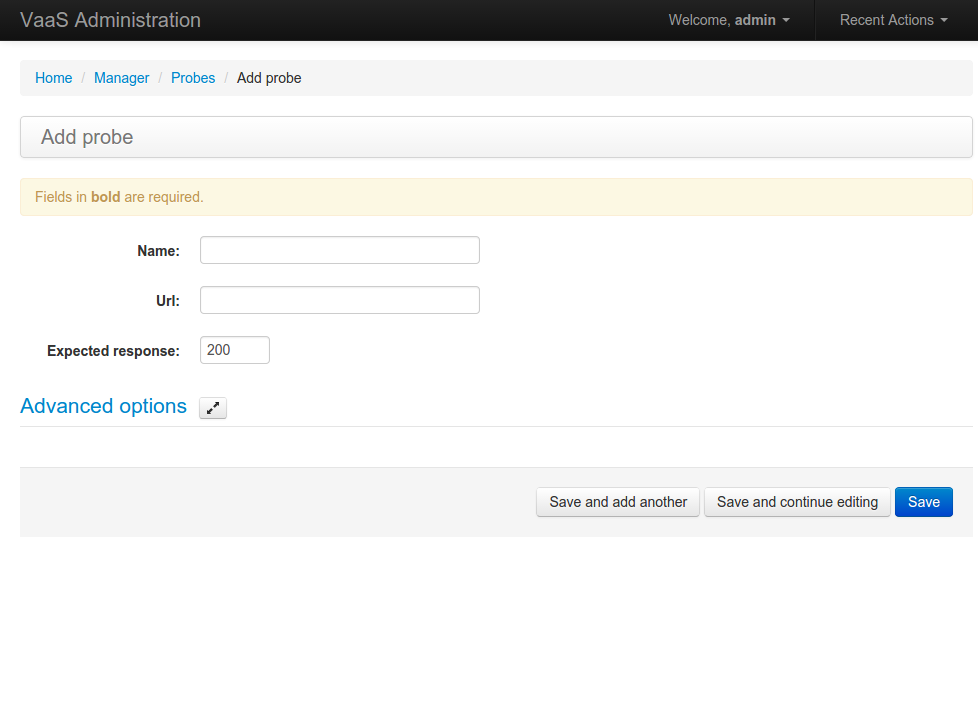
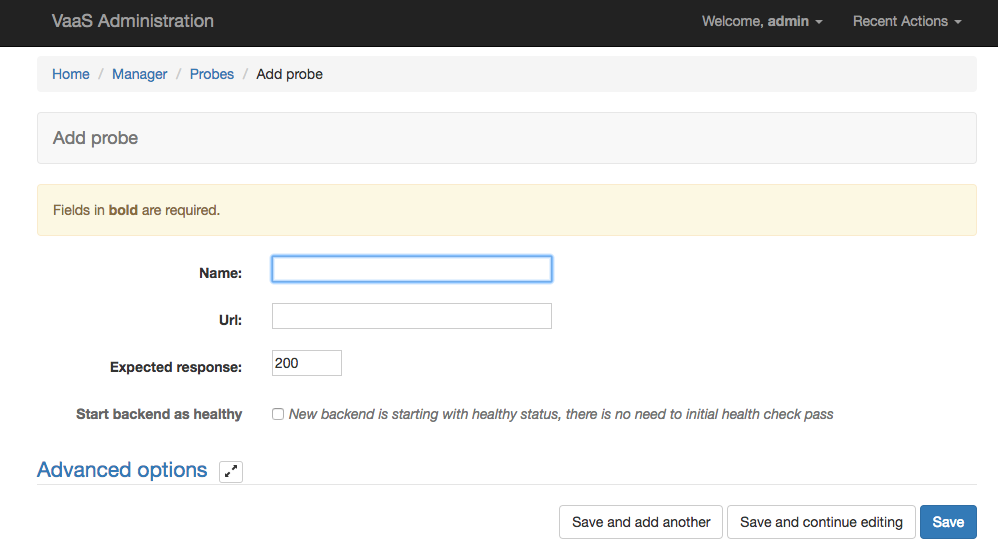
Add option Start backend as healthy in probe definition

diff --git a/vaas-app/src/vaas/vcl/tests/test_renderer.py b/vaas-app/src/vaas/vcl/tests/test_renderer.py
@@ -161,6 +161,12 @@ class VclTagBuilderTest(TestCase):
             mode='hash',
             hashing_policy='req.url'
         )
+        active_active_with_start_as_healthy_probe = DirectorFactory.create(
+            name='eighth_service',
+            mode='round-robin',
+            route_expression='/eighth',
+            probe=Probe.objects.create(name='test_probe_start_as_healthy', url='/status', start_as_healthy=True)
+        )
         """ connect directors to clusters """
         non_active_active_routed_by_path.cluster.add(1, 2)
         active_active_remove_path.cluster.add(1, 2)
@@ -169,6 +175,7 @@ class VclTagBuilderTest(TestCase):
         active_active_absent_in_second_cluster.cluster.add(1)
         active_active_hashing_by_cookie.cluster.add(1, 2)
         active_active_hashing_by_url.cluster.add(1, 2)
+        active_active_with_start_as_healthy_probe.cluster.add(1, 2)
 
         BackendFactory.create(
             address='127.0.1.1', dc=dc2, director=non_active_active_routed_by_path, inherit_time_profile=True)
@@ -182,6 +189,7 @@ class VclTagBuilderTest(TestCase):
         canary_backend = BackendFactory.create(
             address='127.4.2.2', dc=dc1, director=active_active_remove_path, weight=0
         )
+        BackendFactory.create(address='127.11.3.1', dc=dc1, director=active_active_with_start_as_healthy_probe)
         canary_backend.tags.add('canary')
 
         template_v3 = VclTemplate.objects.create(name='new', content='<VCL/>\n## #{vcl_variable} ##', version='3.0')

diff --git a/vaas-app/src/vaas/manager/models.py b/vaas-app/src/vaas/manager/models.py
@@ -34,6 +34,11 @@ class Probe(models.Model):
         default='3',
         choices=[(x, x) for x in range(1, 301)]
     )
+    start_as_healthy = models.BooleanField(
+        'Start backend as healthy',
+        default=False,
+        help_text='<i>New backend is starting with healthy status, there is no need to initial health check pass</i>'
+    )
 
     def __str__(self):
         return "%s (%s)" % (self.name, self.url)

diff --git a/vaas-app/src/vaas/manager/admin.py b/vaas-app/src/vaas/manager/admin.py
@@ -199,7 +199,7 @@ class BackendAdmin(admin.ModelAdmin):
 class ProbeAdmin(admin.ModelAdmin):
     fieldsets = (
         (None, {
-            'fields': ('name', 'url', 'expected_response')
+            'fields': ('name', 'url', 'expected_response', 'start_as_healthy')
         }),
         ('Advanced options', {
             'classes': ('collapse',),

diff --git a/docs/documentation/gui.md b/docs/documentation/gui.md
@@ -106,6 +106,7 @@ To define a new probe, click on *Manager -> Probes -> Add probe* and fill in the
 * **Name:** name of the probe
 * **Url:** url to test
 * **Expected response:** expected http response code
+* **Start backend as healthy** New backend is starting with healthy status, there is no need to initial health check pass
 
 ## [Manager] Time Profiles
 To define a new time profile, click on *Manager -> Time Profiles -> Add time profile* and fill in the form:
